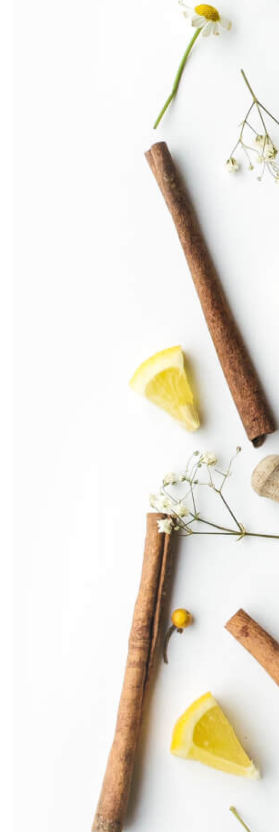
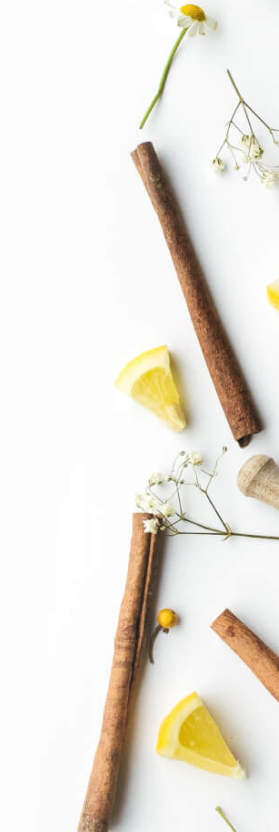
testimonials section done

diff --git a/index.html b/index.html
@@ -12,14 +12,14 @@
     />
 
     <link rel="icon" type="image/svg+xml" href="/img/organick.svg" />
-    <link rel="stylesheet" href="public/styles/main.scss" />
+    <!-- <link rel="stylesheet" href="/public/styles/main.scss" /> -->
 
     <title>Organick</title>
   </head>
   <body>
     <header class="header">
       <img
-        src="/public/img/logo.svg"
+        src="/img/logo.svg"
         alt="Organick header logo"
         class="header__logo"
       />
@@ -73,7 +73,7 @@
       <section class="about">
         <div class="about__content">
           <img
-            src="/public/img/images/about-2x.png"
+            src="/img/images/about-2x.png"
             alt="fresh citrus fruits"
             class="about__img"
           />
@@ -135,7 +135,7 @@
           <div class="product">
             <div class="label product__label">Vegetable</div>
             <img
-              src="./public/img/images/product-1-1x.jpg"
+              src="/img/images/product-1-1x.jpg"
               alt="brocolli, product one"
               class="product__img"
             />
@@ -169,7 +169,7 @@
           <div class="product">
             <div class="label product__label">Vegetable</div>
             <img
-              src="./public/img/images/product-2-1x.jpg"
+              src="/img/images/product-2-1x.jpg"
               alt="brocolli, product one"
               class="product__img"
             />
@@ -197,7 +197,7 @@
           <div class="product">
             <div class="label product__label">Millets</div>
             <img
-              src="./public/img/images/product-3-1x.jpg"
+              src="/img/images/product-3-1x.jpg"
               alt="brocolli, product one"
               class="product__img"
             />
@@ -228,7 +228,7 @@
           <div class="product">
             <div class="label product__label">Vegetable</div>
             <img
-              src="./public/img/images/product-4-1x.jpg"
+              src="/img/images/product-4-1x.jpg"
               alt="brocolli, product one"
               class="product__img"
             />
@@ -257,7 +257,7 @@
           <div class="product">
             <div class="label product__label">Fruits</div>
             <img
-              src="./public/img/images/product-5-1x.jpg"
+              src="/img/images/product-5-1x.jpg"
               alt="brocolli, product one"
               class="product__img"
             />
@@ -282,7 +282,7 @@
           <div class="product">
             <div class="label product__label">Millets</div>
             <img
-              src="./public/img/images/product-6-1x.jpg"
+              src="/img/images/product-6-1x.jpg"
               alt="brocolli, product one"
               class="product__img"
             />
@@ -309,6 +309,54 @@
           </div>
         </div>
       </section>
+      <section class="testimonials">
+        <img
+          src="/img/images/story-left-2x.jpg"
+          alt="natural products as background image"
+          class="testimonials__bg-img--left"
+        />
+        <div class="testimonial">
+          <p class="display-text testimonial__display-text">Testimonial</p>
+          <h2 class="heading-2 testimonial__heading">
+            What Our Custumer Saying?
+          </h2>
+          <img
+            src="/img/images/sara-avatar.jpg"
+            alt="Sara Taylor, Organick customer"
+            class="testimonial__avatar"
+          />
+          <div class="testimonial__rating">
+            <svg class="testimonial__rating-icon">
+              <use xlink:href="../img/sprite.svg#Star" />
+            </svg>
+            <svg class="testimonial__rating-icon">
+              <use xlink:href="../img/sprite.svg#Star" />
+            </svg>
+            <svg class="testimonial__rating-icon">
+              <use xlink:href="../img/sprite.svg#Star" />
+            </svg>
+            <svg class="testimonial__rating-icon">
+              <use xlink:href="../img/sprite.svg#Star" />
+            </svg>
+            <svg class="testimonial__rating-icon">
+              <use xlink:href="../img/sprite.svg#Star" />
+            </svg>
+          </div>
+          <p class="body-text-1 testimonial__message">
+            The quality of organic produce is extremely high, the service is
+            second to none and the taste of the food takes me back to my
+            childhood when we were growing our own.
+          </p>
+          <h5 class="subtitle-4 testimonial__customer-name">Sara Taylor</h5>
+          <p class="label-text testimonial__customer-type">Consumer</p>
+        </div>
+        <img
+          src="/img/images/story-right-2x.jpg"
+          alt="natural products as background image"
+          class="testimonials__bg-img--right"
+        />
+      </section>
     </main>
+    <script type="module" src="./main.js"></script>
   </body>
 </html>

diff --git a/public/styles/layout/_testimonials.scss b/public/styles/layout/_testimonials.scss
@@ -1,0 +1,71 @@
+.testimonials {
+  display: flex;
+  align-items: center;
+  justify-content: space-between;
+  gap: -7rem;
+  background-color: #fcfcfc;
+
+  @include for-mobile-only {
+    justify-content: center;
+  }
+
+  &__bg-img--left,
+  &__bg-img--right {
+    height: 83.2rem;
+    max-width: 20%;
+    object-fit: cover;
+
+    @include for-mobile-only {
+      display: none;
+    }
+  }
+}
+
+.testimonial {
+  max-width: 89.6rem;
+  color: $color-grey-dark-2;
+  display: flex;
+  flex-direction: column;
+  align-items: center;
+  justify-content: center;
+  text-align: center;
+
+  @include for-mobile-only {
+    margin: 6.4rem 1.6rem;
+  }
+
+  &__display-text {
+    color: $color-primary;
+  }
+
+  &__heading {
+    color: $color-body;
+  }
+
+  &__avatar {
+    border-radius: 100%;
+    margin-top: 6.4rem;
+    margin-bottom: 1.6rem;
+  }
+
+  &__rating {
+    display: flex;
+    justify-content: center;
+    gap: 0.8rem;
+  }
+
+  &__rating-icon {
+    width: 2.4rem;
+    height: 2.4rem;
+  }
+
+  &__message {
+    margin-top: 3.2rem;
+    margin-bottom: 2.4rem;
+  }
+
+  &__customer-name {
+    color: $color-body;
+    margin-bottom: 0.8rem;
+  }
+}

diff --git a/public/styles/main.scss b/public/styles/main.scss
@@ -13,4 +13,5 @@
 @import "./layout/offers";
 @import "./layout/about";
 @import "./layout/products";
+@import "./layout/testimonials";
 

diff --git a/public/styles/base/_base.scss b/public/styles/base/_base.scss
@@ -7,6 +7,7 @@
 *::after,
 *::before {
   box-sizing: inherit;
+  // outline: 1px solid limegreen !important;
 }
 
 html {

diff --git a/public/styles/layout/_products.scss b/public/styles/layout/_products.scss
@@ -34,7 +34,7 @@
   }
 
   &__img {
-    max-width: 100%;
+    max-width: 36.8rem;
   }
 
   &__name {

diff --git a/main.js b/main.js
@@ -1,0 +1,1 @@
+import "./public/styles/main.scss";
